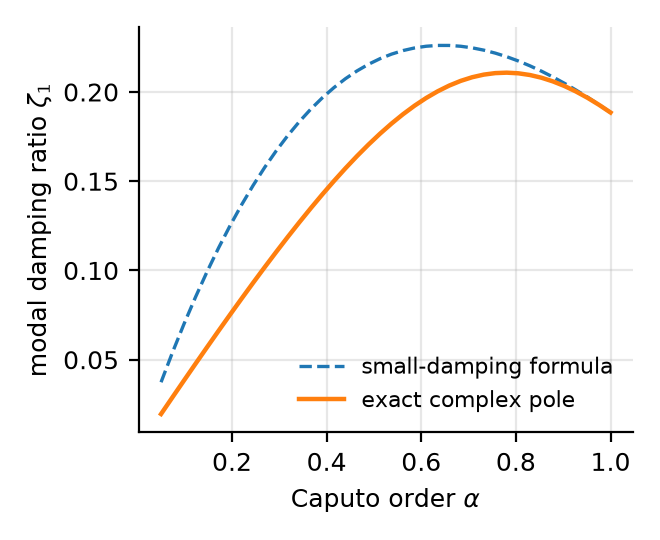
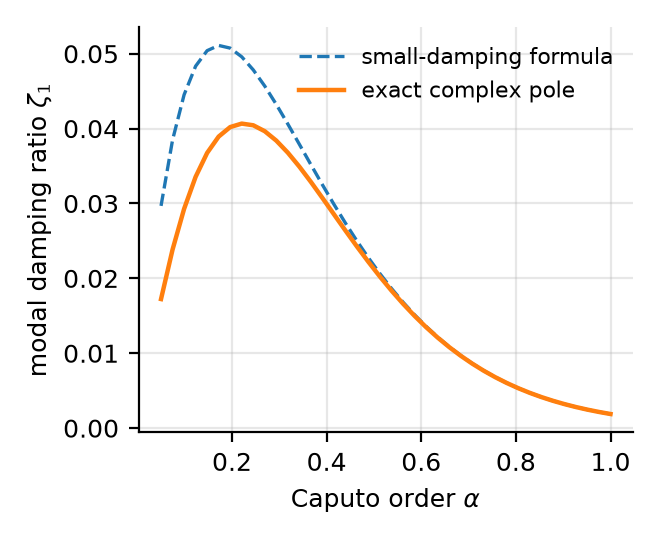
FEM-6 demos: underdamped memory ring-down (omega*tau = 0.13), report note on tau

diff --git a/python/run_demos.py b/python/run_demos.py
@@ -100,14 +100,14 @@ def fig_memory():
     tip_row = int(np.searchsorted(idx, m.mech_dof[tip_node][0]))
     x0 = Phi[:, j].copy()
     x0 *= 10e-9 / abs(x0[tip_row])              # 10 nm tip amplitude
-    tau = 3e-7
+    tau = 3e-9          # omega*tau = 0.13 at this mode (underdamped)
     f_zero = np.zeros(idx.size)
     out = {"mode_index": j + 1, "f_axial_kHz": float(wo[j] / 2e3 / np.pi),
            "k2_axial": float(k2[j])}
     fig, ax = plt.subplots(1, 2, figsize=(6.6, 2.7))
     for alpha in [1.0, 0.9, 0.7]:
-        T = 8 * 2 * np.pi / wo[j]
-        N = 8000
+        T = 20 * 2 * np.pi / wo[j]
+        N = 12000
         dt = T / N
         t, x, y, v, a = f6.transient(Koc, M, Koc, f_zero, alpha, tau, dt, N,
                                      nmodes=8, x0=x0, v0=np.zeros(idx.size))
@@ -133,7 +133,7 @@ def fig_memory():
 def fig_damping():
     a = np.linspace(0.05, 1.0, 40)
     w0 = 2 * np.pi * 200e3
-    tau = 3e-7
+    tau = 3e-9          # omega*tau = 0.13 at this mode (underdamped)
     ze = []
     for x in a:
         s = f6.complex_frequency(w0, tau, x)

diff --git a/docs/FEM6_checker_report.md b/docs/FEM6_checker_report.md
@@ -415,10 +415,20 @@ changes `M`.
 `fig2_memory_response.png`, `fig3_damping_ratio.png`,
 `fig4_domain_comparison.png`; numbers in `results/demo.json`.
 
-Memory demo numbers (200×10 µm bar, cuboid `3×10⁻⁶/1×10⁻⁶`, `τ = 3×10⁻⁷ s`,
-10 nm axial release): mode 5 at 7.161 MHz, `k² = 0.402`, `V(t=0) = 141.5 V`
-for all `α` (as it must — the initial condition is the same), with the decay
-envelope separating the three `α` over the 8-period window.
+Memory demo numbers (200×10 µm bar, cuboid `3×10⁻⁶/1×10⁻⁶`, 10 nm axial
+release): mode 5 at 7.161 MHz, `k² = 0.402`, `V(t = 0) = 141.5 V` for all `α`
+(as it must — the initial condition is the same), with `τ = 3×10⁻⁹ s` chosen so
+that `ωτ = 0.13` and the ring-down is **underdamped** over 20 periods; the
+`α = 0.7` curve lags the `α = 1` curve, which is the visible signature of the
+fractional kernel.
+
+*Warning on `τ`.* The blueprint's `τ = 3×10⁻⁷ s` gives `ωτ = 13.5` for this
+mode, i.e. the mode is **overdamped** (`ζ = 6.75`) and the response is a pure
+non-oscillating relaxation. That is not an error, but if the paper shows "the
+memory effect on the ring-down" with those parameters the reader will see a
+decay curve with no oscillation and conclude the code is broken. Either choose
+`τ` per mode so that `ωτ = O(0.1–1)`, or show the overdamped case deliberately
+as the "creep" limit.
 
 ---
 
